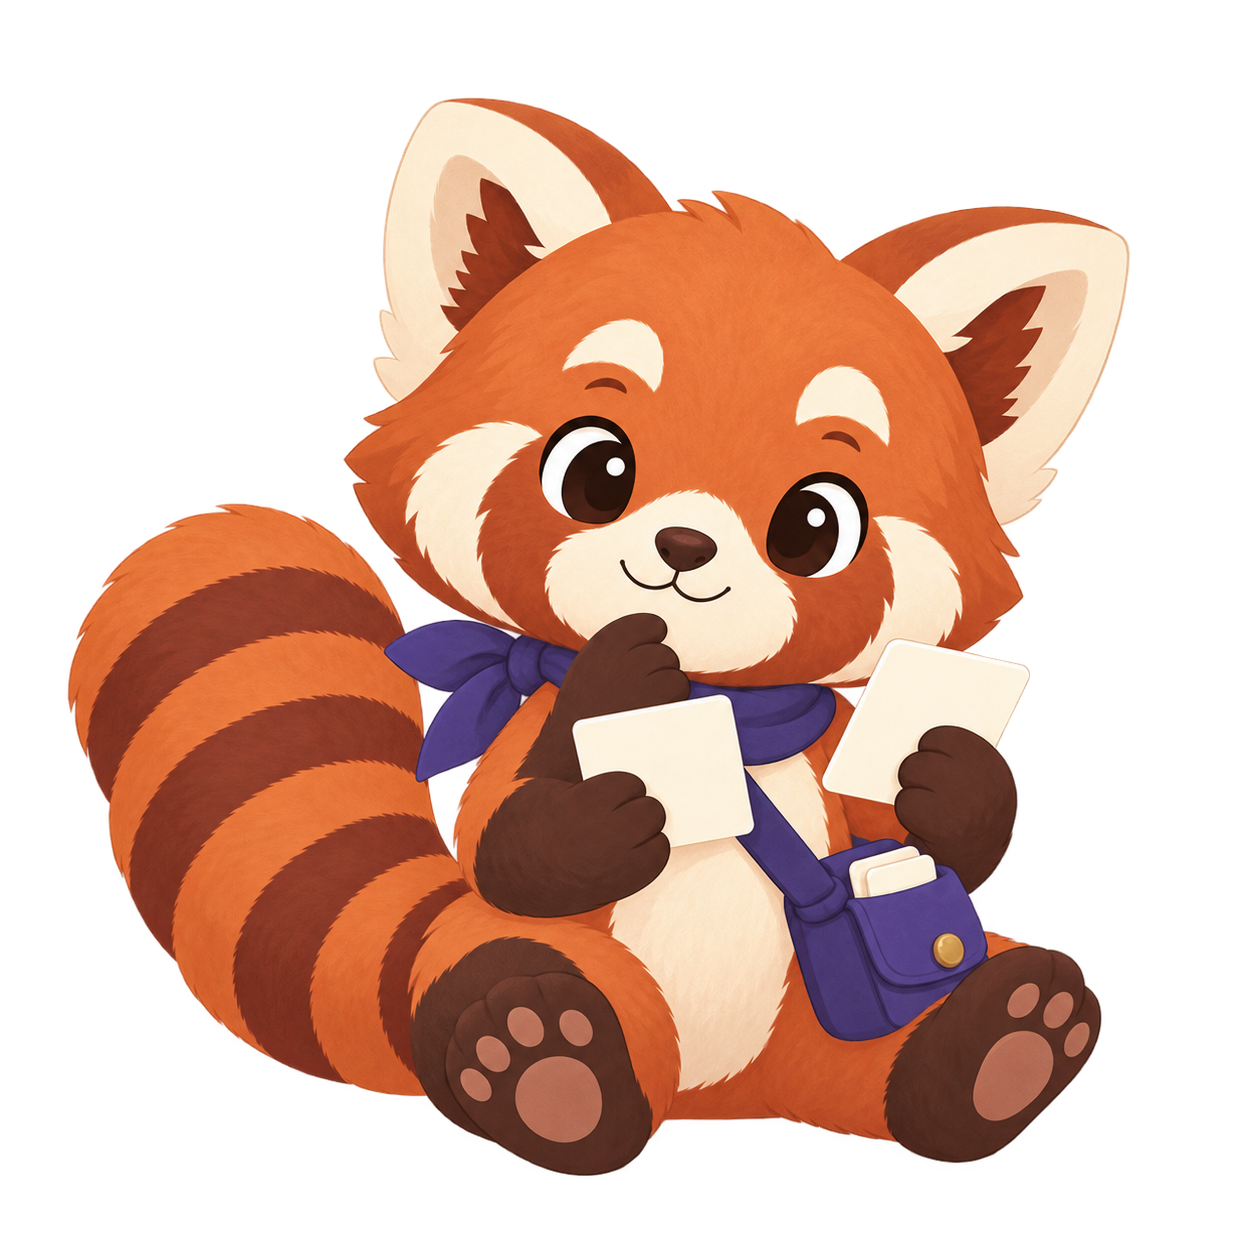
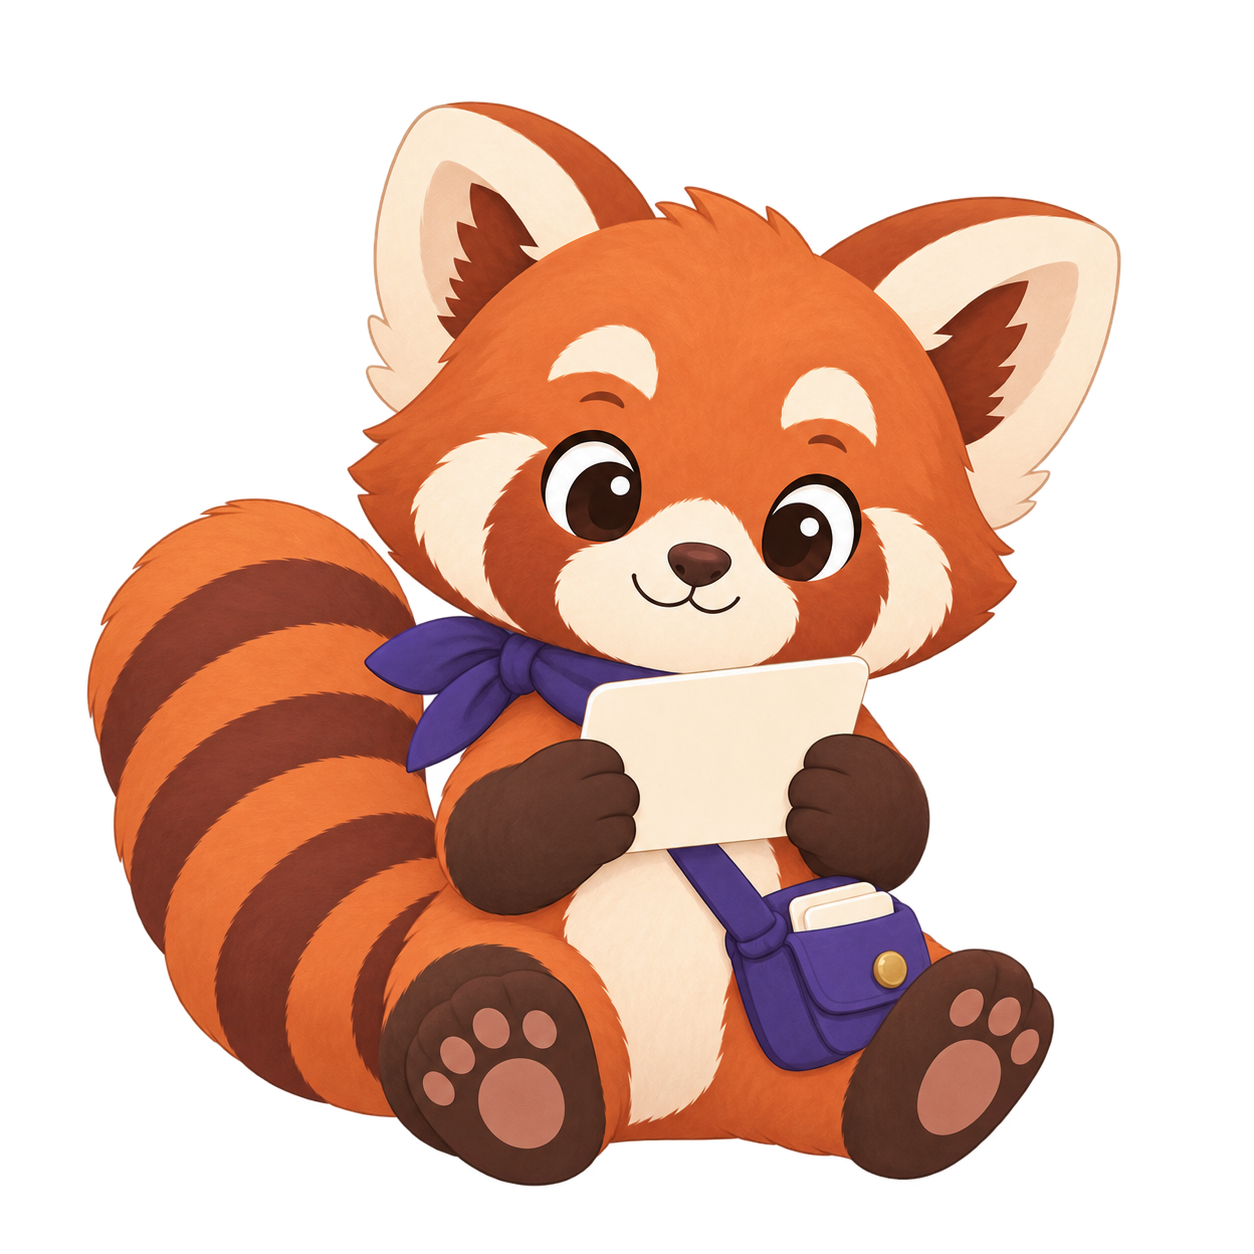
Refresh Aki art and record pose prompts
Remove the welcome shadow and correct the study pose. Add three
missing poses and record the prompt for each master illustration.

diff --git a/docs/aki.md b/docs/aki.md
@@ -56,12 +56,16 @@ yet: they are not embedded in the server binary and are not public paths.
 | `minimum.png` | `aki_minimum` | Daily minimum reached; today counts |
 | `goal.png` | `aki_goal` | Daily goal reached |
 | `achievement.png` | `aki_achievement` | An achievement unlocked |
+| `level_up.png` | `aki_level_up` | A level reached |
 | `deck_conquered.png` | `aki_deck_conquered` | A deck conquered |
+| `leech.png` | `aki_leech` | A leech tamed |
+| `at_risk.png` | `aki_at_risk` | Still time to secure the streak |
 | `sleeping.png` | `aki_sleeping` | Rest day, notifications off |
 | `../duo/friends.png` | `duo_friends` | Aki and Ankilope together: sharing, challenges, nudges |
 
-the prompts for the moment art were not recorded, so `aki-prompts.json` has no
-entries for them yet.
+`aki-prompts.json` records the prompts for new and replaced art. Prompts for
+earlier poses without a generation record were reconstructed from the shipped
+PNG masters. Each client-sized copy uses the prompt for its master pose.
 
 Aki encourages small steps and celebrates confirmed progress. avoid guilt,
 threats, fake rewards or implying a streak is protected merely because a user
